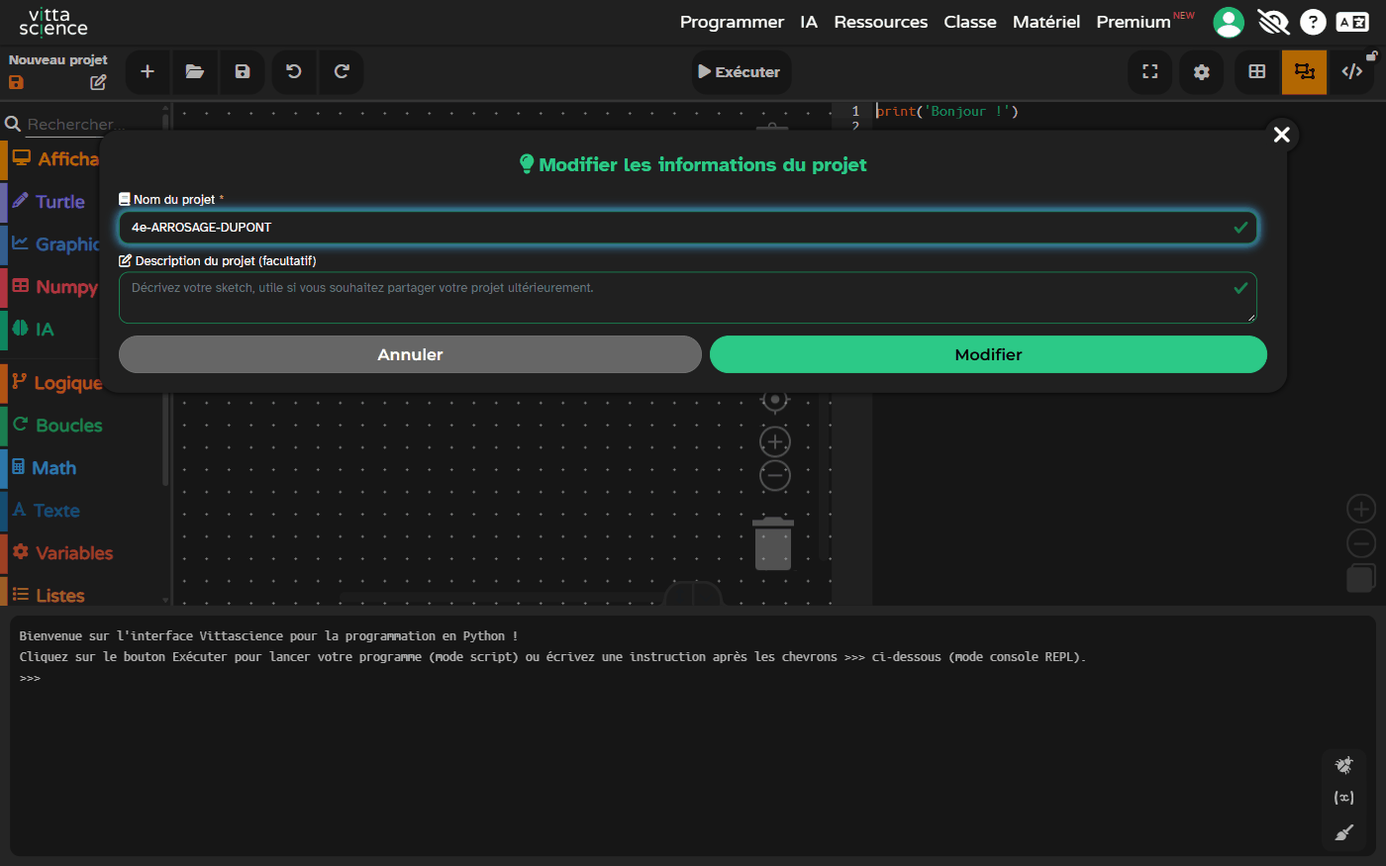
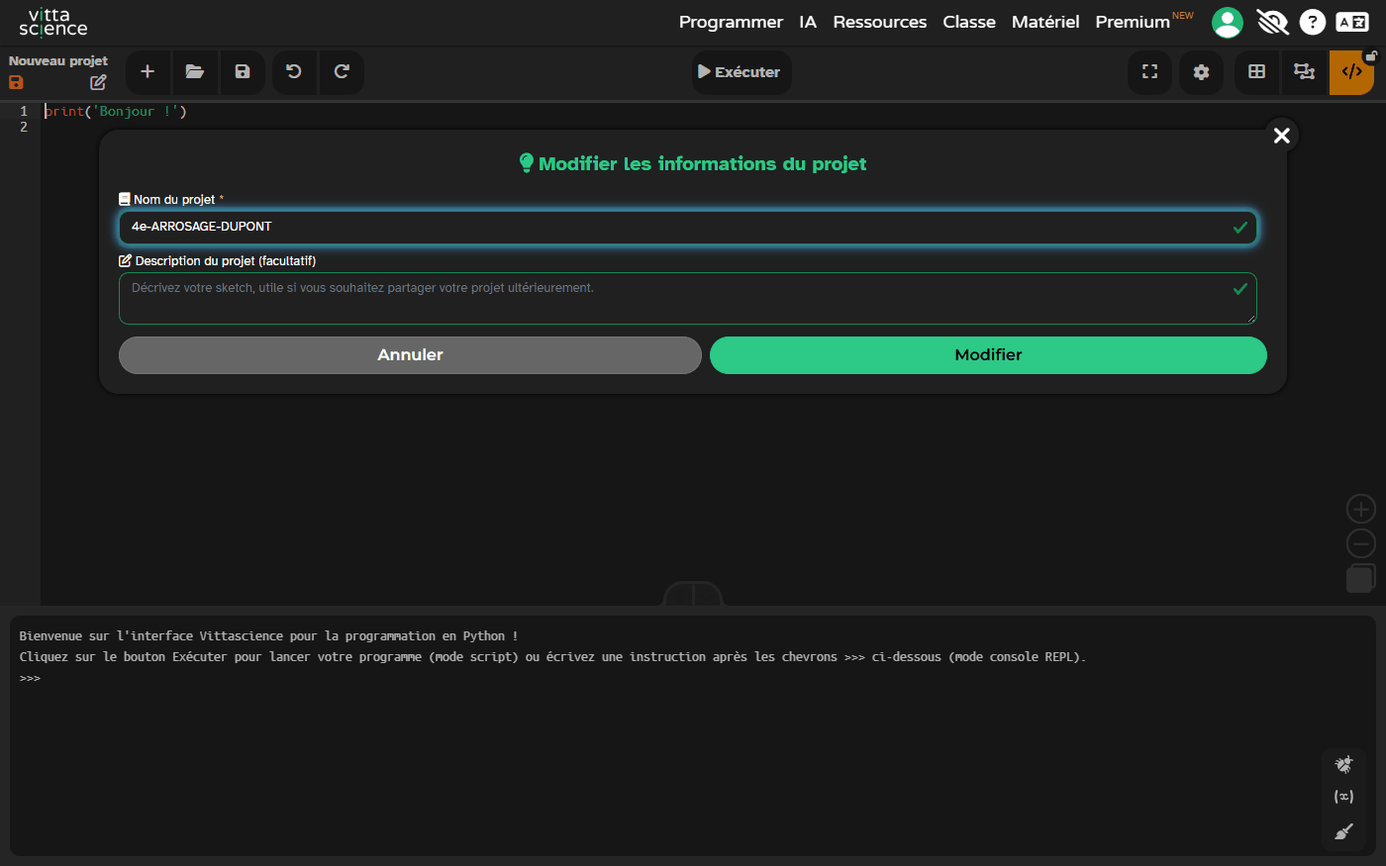
Thème 2 · 4e_C6.2 : le Python tapé se fait en mode code, avec un préambule de simulation et un bouton « Copier »
Le lot précédent n'avait testé que des blocs. En mode mixte, un programme tapé est réécrit depuis
les blocs ; et la consigne fait taper des appels à la carte (lire_capteur, demarrer_pompe,
attendre…) qui n'existent pas dans l'éditeur web. La note de l'activité 3 parlait de « blocs
capteurs » : il n'y en a pas.

Activités 3, 5 et Bonus : ?mode=code, activité 3 en Python seul. Un préambule de huit lignes fabrique
les fonctions de la carte, qui affichent ce qu'elle ferait ; trois boutons « Copier » le donnent à
l'identique. Mesuré dans Vittascience : une décision par seconde, l'onglet ne fige pas, « Arrêter »
(bandeau vert) coupe le programme, les numéros d'erreur sont ceux de la marge.

Encart des gestes sans compte : Ouvrir en mode code, Retrouver par le clic droit « Modifier dans
Bloc-notes » en copiant à partir de « import time », Sortir par Télécharger. Douze captures,
trois tests ajoutés (38/38), SOURCES_MEDIAS, rapport de tests et journal à jour.

diff --git a/theme-2-structure-fonctionnement-comportement/C6-comprendre-et-modifier-un-programme-associe/4e/4e_C6.2/sequence-jardin-connecte-arrosage-automatique.html b/theme-2-structure-fonctionnement-comportement/C6-comprendre-et-modifier-un-programme-associe/4e/4e_C6.2/sequence-jardin-connecte-arrosage-automatique.html
@@ -183,6 +183,9 @@
   .gestes-outil figure.geste-capture figcaption{margin:.35rem 0 0;font-size:.88em;line-height:1.45;opacity:.92}
   .gestes-outil figure.geste-capture figcaption b{color:inherit}
   @media print{.gestes-outil figure.geste-capture{break-inside:avoid;page-break-inside:avoid}}
+  .preambule-carte{margin:.6rem 0 .8rem}
+  .preambule-carte pre.code{margin:0 0 .5rem;font-size:.72em;white-space:pre-wrap;overflow-wrap:anywhere}
+  .preambule-carte .copie-etat{margin-left:.6rem;font-size:.9em}
 </style>
 
 
@@ -255,7 +258,7 @@
   <h2>🔀 Trois façons de vivre l'atelier</h2>
   <div class="donnees">
     <p>🅰 <b>Avec matériel</b> : l'éditeur Vittascience relié à une carte réelle + capteur d'humidité + relais + petite pompe 5 V ou DEL de substitution (<b>très basse tension uniquement — jamais de secteur</b>).</p>
-    <p>🅱 <b>En simulation</b> : les <b>barres 🧪 bleues</b> des séances 1, 2 et du Bonus ouvrent l'éditeur Vittascience dans un nouvel onglet (blocs à gauche, Python à droite) — un clic sur leur lien-bouton. Le simulateur de pompe de la séance 2 complète le tout. C'est le parcours principal.</p>
+    <p>🅱 <b>En simulation</b> : les <b>barres 🧪 bleues</b> des séances 1, 2 et du Bonus ouvrent l'éditeur Vittascience dans un nouvel onglet, en mode code (tu tapes ton programme) — un clic sur leur lien-bouton. Le simulateur de pompe de la séance 2 complète le tout. C'est le parcours principal.</p>
     <p>🅲 <b>Sans matériel</b> : la remise en ordre, le Python à trous, le simulateur de pompe et le banc de tests fonctionnent entièrement dans la page, hors ligne.</p>
   </div>
   <div class="retenir"><b>📡 Méthode de l'atelier — prédire → tester → reporter :</b> à chaque exercice, tu PRÉDIS
@@ -324,21 +327,16 @@
   c'est court. Et si tu ne les as jamais faits, tout est écrit ici — tu n'as
   besoin de rien d'autre.</p>
   <ol>
-    <li><b>Ouvrir.</b> Clique sur le bouton <b>▶ Ouvrir l'éditeur Vittascience dans un nouvel onglet</b> de l'activité&nbsp;: l'éditeur Python s'ouvre dans un nouvel onglet. Connecte-toi avec le compte de la classe si le professeur te le demande — il garde ton projet en ligne pendant la séance&nbsp;; ta copie à toi, c'est le geste 4.
+    <li><b>Ouvrir.</b> Clique sur le bouton <b>▶ Ouvrir l'éditeur Vittascience dans un nouvel onglet</b> de l'activité&nbsp;: l'éditeur Python s'ouvre dans un nouvel onglet, en <b>mode code</b>&nbsp;: tu écris ton programme au clavier. Une ligne <code>print('Bonjour&nbsp;!')</code> est déjà là&nbsp;: efface-la avant de commencer.
       <figure class="geste-capture">
         <img src="Images/geste_vitta_1_ouvrir_bouton.png" width="1400" height="875" loading="lazy"
-             alt="La page de la séquence, en thème sombre, sur l'activité 3. Dans le cadre « Reconstruis le programme de mesure dans l'onglet Vittascience — blocs OU Python, comme tu préfères », un bouton bleu « ▶ Ouvrir l'éditeur Vittascience dans un nouvel onglet », suivi de la phrase « Vittascience n'accepte pas d'être affiché à l'intérieur d'une autre page : l'éditeur s'ouvre dans un onglet à part. Garde cet onglet-ci ouvert pour lire la consigne. »">
-        <figcaption><b>Ce que tu dois voir&nbsp;:</b> le bouton <b>▶ Ouvrir l'éditeur Vittascience…</b>, dans le cadre de l'activité. <b>Puis&nbsp;:</b> clique-le&nbsp;; garde cet onglet-ci ouvert pour lire la consigne.</figcaption>
-      </figure>
-      <figure class="geste-capture">
-        <img src="Images/geste_vitta_1b_ouvrir_connexion.png" width="1400" height="875" loading="lazy"
-             alt="L'éditeur Python de Vittascience, en thème sombre, avec la fenêtre « Connexion » ouverte : « Entrez vos identifiants pour accéder à votre compte Vittascience », un champ « Adresse mail » vide, un champ « Mot de passe » vide, un lien « J'ai oublié mon mot de passe », un bouton vert « Se connecter », puis, sous « OU », quatre boutons de connexion par Google, Microsoft, Apple et IAM Luxembourg.">
-        <figcaption><b>Si le professeur te demande de te connecter&nbsp;:</b> clique l'icône du compte, en haut à droite, puis «&nbsp;Je me connecte&nbsp;». Tape l'adresse et le mot de passe <b>du compte de la classe</b>, que le professeur te donne, puis <b>Se connecter</b>. <i>N'utilise ni Google ni Microsoft&nbsp;: ce serait ton compte à toi.</i></figcaption>
+             alt="La page de la séquence, en thème sombre, sur l'activité 3. Dans le cadre « Reconstruis le programme de mesure dans l'onglet Vittascience — en Python », le préambule de simulation en huit lignes de code, un bouton « Copier le préambule », puis un bouton bleu « ▶ Ouvrir l'éditeur Vittascience dans un nouvel onglet », suivi de la phrase « Vittascience n'accepte pas d'être affiché à l'intérieur d'une autre page : l'éditeur s'ouvre dans un onglet à part. Garde cet onglet-ci ouvert pour lire la consigne. »">
+        <figcaption><b>Ce que tu dois voir&nbsp;:</b> le bouton <b>▶ Ouvrir l'éditeur Vittascience…</b>, dans le cadre de l'activité, sous le préambule et son bouton Copier. <b>Puis&nbsp;:</b> clique-le&nbsp;; garde cet onglet-ci ouvert pour lire la consigne.</figcaption>
       </figure>
       <figure class="geste-capture">
         <img src="Images/geste_vitta_1c_ouvrir_editeur.png" width="1400" height="875" loading="lazy"
-             alt="L'éditeur Python de Vittascience après la connexion, en thème sombre. En haut à gauche, le nom « Nouveau projet ». La barre d'outils : Nouveau, Ouvrir, Sauvegarder, Annuler, Rétablir, puis Exécuter au centre, et à droite les trois boutons de mode — blocs, hybride (orange), code. À gauche, les catégories de blocs : Affichage, Turtle, Graphiques, Numpy, IA, Logique, Boucles, Math, Texte, Variables, Listes. Au centre, un bloc orange « afficher “Bonjour !” » ; à droite, le code Python print('Bonjour !'). En bas, la console avec son message de bienvenue.">
-        <figcaption><b>Comment savoir que c'est fait&nbsp;:</b> blocs à gauche, Python à droite, console en bas, et le nom «&nbsp;Nouveau projet&nbsp;» en haut à gauche. <i>Le bloc «&nbsp;afficher Bonjour&nbsp;» est l'exemple que Vittascience pose dans tout projet neuf.</i></figcaption>
+             alt="L'éditeur Python de Vittascience, en thème sombre et en mode code. En haut à gauche, le nom « Nouveau projet ». La barre d'outils : Nouveau, Ouvrir, Sauvegarder, Annuler, Rétablir, puis Exécuter au centre, et à droite les trois boutons de mode, celui du code (orange) étant actif. Une seule grande zone de texte contient la ligne 1, print('Bonjour !'). En bas, la console avec son message de bienvenue.">
+        <figcaption><b>Comment savoir que c'est fait&nbsp;:</b> une seule grande zone de texte, la console en bas, et le nom «&nbsp;Nouveau projet&nbsp;» en haut à gauche. <b>Puis&nbsp;:</b> efface la ligne <code>print('Bonjour&nbsp;!')</code>, que Vittascience met dans tout projet neuf, et tape ton programme à la place.</figcaption>
       </figure>
     </li>
     <li><b>Nommer.</b> Clique le <b>crayon</b> à côté du nom du projet, en haut à gauche, et remplace «&nbsp;Nouveau projet&nbsp;» par <code>4e-ARROSAGE-TON&nbsp;NOM</code>. Un projet sans nom est introuvable la semaine suivante.
@@ -349,27 +347,32 @@
       </figure>
       <figure class="geste-capture">
         <img src="Images/geste_vitta_2b_nommer_resultat.png" width="1400" height="875" loading="lazy"
-             alt="L'éditeur après la validation : en haut à gauche, le nom du projet est devenu « 4e-ARROSAGE-DU… » (coupé à l'écran), avec une coche verte.">
+             alt="L'éditeur après la validation : en haut à gauche, le nom du projet est devenu « 4e-ARROSAGE-DU… » (coupé à l'écran).">
         <figcaption><b>Comment savoir que c'est fait&nbsp;:</b> ton nom apparaît en haut à gauche. Il est coupé à l'écran mais il est entier&nbsp;: c'est lui qui nommera ton fichier au geste 4.</figcaption>
       </figure>
     </li>
-    <li><b>Retrouver.</b> Pendant la séance, ton projet reste dans le compte de la classe&nbsp;: clique la <b>disquette</b>, puis <b>Sauvegarder</b>, et vérifie qu'il y est par <b>Ouvrir → Mes projets sur le cloud</b>. La semaine suivante, tu repars de ta copie&nbsp;: <b>Ouvrir → Depuis votre appareil</b>, puis ton fichier <code>.py</code>.
+    <li><b>Retrouver.</b> La semaine suivante, ne rouvre pas ton fichier par <b>Ouvrir → Depuis votre appareil</b>&nbsp;: Vittascience remettrait <code>print('Bonjour&nbsp;!')</code> à la place de ton programme. Ouvre ton fichier <code>.py</code> (celui du geste 4) dans le <b>Bloc-notes</b>&nbsp;: dans <b>Documents</b>, dans le dossier de ta classe, <b>clic droit</b> sur le fichier, puis <b>Modifier dans Bloc-notes</b>. Sélectionne à partir de la ligne <code>import time</code> (le préambule fait partie de ton programme), sans l'en-tête, puis <b>Ctrl&nbsp;+&nbsp;C</b>. Dans Vittascience, clique dans la zone de texte, <b>Ctrl&nbsp;+&nbsp;A</b>, puis <b>Ctrl&nbsp;+&nbsp;V</b>&nbsp;: ton programme remplace <code>print('Bonjour&nbsp;!')</code>.
       <figure class="geste-capture">
-        <img src="Images/geste_vitta_3_retrouver_cloud.png" width="1400" height="875" loading="lazy"
-             alt="Fenêtre « Ouvrir un projet » de Vittascience, onglet « Mes projets sur le cloud » (1). Un seul projet est listé : 4e-ARROSAGE-DUPONT, avec la mention « Privée » et « Modifié le dimanche 4 octobre 2026 à 11:52 », et quatre boutons : Ouvrir, Partager, Intégrer, Supprimer. Les autres onglets sont « Projets de la communauté », « Exemples », « Mes projets locaux » et « Depuis votre appareil ».">
-        <figcaption><b>Ce que tu dois voir&nbsp;:</b> ton projet dans «&nbsp;Mes projets sur le cloud&nbsp;», après la sauvegarde. <b>Puis&nbsp;:</b> ferme la fenêtre avec la croix. <i>Ici le compte de test n'a qu'un projet&nbsp;; celui de la classe en aura un par élève.</i></figcaption>
+        <img src="Images/geste_vitta_3_retrouver_menu.png" width="832" height="388" loading="lazy"
+             alt="Le haut du menu qui s'ouvre au clic droit sur le fichier .py, en thème sombre. De haut en bas : « Ouvrir avec » en gras, « Convertir avec Doxillion », « WinRAR », « Déplacer vers OneDrive », « Éditer avec Notepad++ », « Unlock with File Locksmith », puis « Modifier dans Bloc-notes ». L'image est recadrée sur le haut du menu.">
+        <figcaption><b>Ce que tu dois voir&nbsp;:</b> le menu du clic droit, avec la ligne <b>Modifier dans Bloc-notes</b>. <b>Clique-la.</b> <b>Si cette ligne n'est pas dans le menu&nbsp;:</b> clique <b>Ouvrir avec</b>, cherche <b>Bloc-notes</b> dans la liste, puis <b>Une seule fois</b>. <i>Les autres lignes dépendent du poste&nbsp;: ce sont celles de ce poste-ci.</i></figcaption>
       </figure>
       <figure class="geste-capture">
-        <img src="Images/geste_vitta_3b_retrouver_appareil.png" width="1400" height="875" loading="lazy"
-             alt="La même fenêtre « Ouvrir un projet », onglet « Depuis votre appareil » : une zone « Déposez vos fichiers ici… », un champ « Sélectionnez un fichier. » et un bouton vert « Ouvrir … ».">
-        <figcaption><b>La semaine suivante&nbsp;:</b> onglet <b>Depuis votre appareil</b>, bouton <b>Ouvrir…</b>, puis ton fichier <code>.py</code> dans Documents › ta classe. Vittascience te demande de confirmer&nbsp;: <b>Oui</b>. Ton programme revient, en blocs.</figcaption>
+        <img src="Images/geste_vitta_3b_retrouver_bloc_notes.png" width="1400" height="843" loading="lazy"
+             alt="Le fichier .py ouvert dans le Bloc-notes de Windows, en thème sombre. Dans l'onglet, le début du nom du fichier : « 4e-ARROSAGE-DU… ». Sous la barre de menus (Fichier, Modifier, Affichage), quatorze lignes d'en-tête de Vittascience entre deux lignes de trois guillemets, dont une longue ligne Blocks coupée à droite. En dessous, sur fond bleu, seize lignes sélectionnées : les huit lignes du préambule, de « import time; A0 = 0; … » à « # ===== Ton programme commence ici ===== », puis le programme, de « seuil = 30 » à « attendre(1) ». L'image est recadrée sur la partie gauche de la fenêtre.">
+        <figcaption><b>Ce que tu dois voir&nbsp;:</b> le Bloc-notes, le nom de ton fichier dans l'onglet, l'en-tête de Vittascience, puis ton programme. <b>Sélectionne à partir de la ligne <code>import time</code></b> (le préambule fait partie de ton programme), <b>sans l'en-tête</b>, jusqu'à la fin. Puis <b>Ctrl&nbsp;+&nbsp;C</b>. <i>La fenêtre est recadrée sur sa partie gauche&nbsp;; le programme est un exemple.</i></figcaption>
+      </figure>
+      <figure class="geste-capture">
+        <img src="Images/geste_vitta_3c_retrouver_coller.png" width="1400" height="875" loading="lazy"
+             alt="L'éditeur Python de Vittascience, en thème sombre et en mode code, pendant l'exécution. La marge numérote les lignes de 1 à 17 : les huit lignes du préambule, puis le programme. Un bandeau vert « Exécution de votre code… Veuillez patienter. » porte un bouton « Arrêter ». La console, en bas, affiche des lignes comme « [capteur] 25 % » suivie de « [pompe] MARCHE », puis « [capteur] 45 % » suivie de « [pompe] arrêt ».">
+        <figcaption><b>Comment savoir que c'est fait&nbsp;:</b> ton programme, préambule compris, a pris la place de <code>print('Bonjour&nbsp;!')</code>, et <b>Exécuter</b> remplit la console. <b>Pour arrêter&nbsp;:</b> clique <b>Arrêter</b>, dans le bandeau vert. En cas d'erreur, le numéro de ligne donné par la console est celui de la marge. <i>Le programme est un exemple&nbsp;: c'est le tien qui revient.</i></figcaption>
       </figure>
     </li>
-    <li><b>Sortir.</b> Le compte de la classe est partagé&nbsp;: il ne garde pas ton travail d'une séance à l'autre. Clique la <b>disquette</b>, puis <b>Télécharger</b>&nbsp;: un fichier <code>.py</code> au nom de ton projet arrive dans <b>Téléchargements</b>. Vittascience ajoute des chiffres à la fin du nom du fichier&nbsp;: c'est normal. <b>Déplace-le</b> dans <b>Documents</b>, dans <b>le dossier de ta classe (exemple&nbsp;: 4E3)</b>. Si ce dossier n'existe pas encore, crée-le d'abord&nbsp;: dans Documents, <b>Nouveau → Dossier</b>, tape le nom de ta classe, puis valide.
+    <li><b>Sortir.</b> Vittascience ne garde pas ton travail d'une séance à l'autre. Clique la <b>disquette</b>, puis <b>Télécharger</b>&nbsp;: un fichier <code>.py</code> au nom de ton projet arrive dans <b>Téléchargements</b>. Vittascience ajoute des chiffres à la fin du nom du fichier&nbsp;: c'est normal. <b>Déplace-le</b> dans <b>Documents</b>, dans <b>le dossier de ta classe (exemple&nbsp;: 4E3)</b>. Si ce dossier n'existe pas encore, crée-le d'abord&nbsp;: dans Documents, <b>Nouveau → Dossier</b>, tape le nom de ta classe, puis valide.
       <figure class="geste-capture">
         <img src="Images/geste_vitta_4_sortir_telecharger.png" width="1400" height="875" loading="lazy"
-             alt="Fenêtre « Sauvegarder le projet » de Vittascience. Le champ « Nom du projet » contient 4e-ARROSAGE-DUPONT. Dessous : une description facultative, un bandeau bleu sur le partage avec la communauté, un interrupteur « Publier son projet pour toute la communauté » éteint, trois boutons « Sauvegarder », « Sauvegarder sous … » et « Partager », puis, sous le mot « ou », un bouton vert « Télécharger » avec un point d'interrogation.">
-        <figcaption><b>Ce que tu dois voir&nbsp;:</b> la fenêtre «&nbsp;Sauvegarder le projet&nbsp;», ouverte par la <b>disquette</b>. <b>Clique «&nbsp;Télécharger&nbsp;»</b>, le bouton vert tout en bas. <i>Laisse «&nbsp;Publier son projet&nbsp;» éteint.</i></figcaption>
+             alt="Fenêtre « Sauvegarder le projet » de Vittascience, en thème sombre, sans compte. Le texte « Pour enregistrer votre projet, veuillez vous connecter. », un bouton vert « Je me connecte », le mot « ou », un bouton orange « Je m'inscris ! », une ligne, le mot « ou », puis un bouton vert « Télécharger » avec un point d'interrogation.">
+        <figcaption><b>Ce que tu dois voir&nbsp;:</b> la fenêtre «&nbsp;Sauvegarder le projet&nbsp;», ouverte par la <b>disquette</b>. <b>Ne te connecte pas et ne t'inscris pas&nbsp;:</b> clique <b>Télécharger</b>, le bouton vert tout en bas.</figcaption>
       </figure>
       <figure class="geste-capture">
         <img src="Images/geste_vitta_4b_sortir_telechargements.png" width="1400" height="543" loading="lazy"
@@ -407,10 +410,24 @@
     </table>
     <p class="py-legende">🎨 Lis le code en couleurs : <span class="py-var">variables</span> · <span class="py-str">"textes"</span> · <span class="py-num">nombres</span> · <span class="py-kw">mots-clés</span> · <span class="py-op">=</span> et opérateurs</p>
     <details class="vs" id="vs1" open>
-      <summary>🧪 Reconstruis le programme de mesure dans l'onglet Vittascience — blocs OU Python, comme tu préfères</summary>
-      <p class="vs-note">L'éditeur s'ouvre dans un nouvel onglet : blocs à gauche, Python à droite, console en bas. Assemble les blocs « capteurs » dans l'ordre que tu as choisi, exécute, et observe la console. (Connexion Internet nécessaire pour l'éditeur ; le reste de la page fonctionne hors ligne.)</p>
+      <summary>🧪 Reconstruis le programme de mesure dans l'onglet Vittascience — en Python</summary>
+      <p class="vs-note">L'éditeur s'ouvre dans un nouvel onglet, en mode code&nbsp;: tu tapes ton programme dans la grande zone de texte, la console est en bas. (Connexion Internet nécessaire pour l'éditeur&nbsp;; le reste de la page fonctionne hors ligne.)</p>
+      <p class="vs-note"><b>Sans carte réelle, commence par coller le préambule ci-dessous</b> (bouton Copier)&nbsp;: dans l'éditeur, clique dans la zone de texte, <b>Ctrl&nbsp;+&nbsp;A</b>, puis <b>Ctrl&nbsp;+&nbsp;V</b>. Il fabrique les fonctions de la carte, qui affichent ce que la carte ferait.</p>
+      <div class="preambule-carte">
+        <pre class="code" id="preambule-vs1">import time; A0 = 0; mesures = [55, 40, 25, 12, 28, 45]; rang = [0]  # ===== Simulation de la carte (7 lignes) : ne les change pas =====
+def suivante(): rang[0] = rang[0] + 1; return mesures[(rang[0] - 1) % len(mesures)]
+def lire_capteur_pourcent(broche): v = suivante(); print("[capteur]", v, "%"); return v
+def lire_capteur(broche): v = suivante() * 1023 // 100; print("[capteur] valeur brute", v); return v
+def demarrer_pompe(): print("[pompe] MARCHE")
+def arreter_pompe(): print("[pompe] arrêt")
+def attendre(secondes): time.sleep(secondes)
+# ===== Ton programme commence ici =====</pre>
+        <button type="button" class="btn copier-preambule" data-cible="preambule-vs1">📋 Copier le préambule</button>
+        <span class="copie-etat" role="status" aria-live="polite"></span>
+      </div>
+      <p class="vs-note">Tape ensuite tes cinq lignes sous le préambule, dans l'ordre que tu as choisi, clique <b>Exécuter</b> et observe la console. Le programme boucle sans fin&nbsp;: clique <b>Arrêter</b>, sous Exécuter, pour l'arrêter. En cas d'erreur, le numéro de ligne donné par la console est celui de la marge de l'éditeur.</p>
       
-<p class="vs-ouvrir"><a class="btn vs-lien" href="https://fr.vittascience.com/python/?mode=mixed&amp;console=bottom" target="_blank" rel="noopener">▶ Ouvrir l'éditeur Vittascience dans un nouvel onglet</a></p>
+<p class="vs-ouvrir"><a class="btn vs-lien" href="https://fr.vittascience.com/python/?mode=code&amp;console=bottom" target="_blank" rel="noopener">▶ Ouvrir l'éditeur Vittascience dans un nouvel onglet</a></p>
 <p class="vs-note">Vittascience n'accepte pas d'être affiché à l'intérieur d'une autre page : l'éditeur s'ouvre dans un onglet à part. Garde cet onglet-ci ouvert pour lire la consigne.</p>
     </details>
     <details class="aide"><summary>💡 Aide niveau 1 — un indice</summary><div><p>On ne peut pas convertir une valeur qu'on n'a pas encore lue. Et « répéter sans fin » englobe tout ce qui doit se refaire chaque seconde.</p></div></details>
@@ -469,13 +486,26 @@
     <label>PRÉDIS, puis vérifie dans l'éditeur : avec <code>humidite = 12</code> et <code>seuil = 30</code>, il se passe… <select id="a5q1"><option value="">— je choisis —</option><option>la pompe démarre (12 &lt; 30 est VRAI)</option><option>la pompe s'arrête</option><option>rien, le programme attend</option></select></label>
     <details class="vs" id="vs2" open>
       <summary>🧪 Recopie ton programme complété dans l'onglet Vittascience et exécute-le — la preuve par la console</summary>
-      <p class="vs-note">Blocs à gauche, Python à droite. Sans carte réelle, remplace <code>lire_capteur_pourcent(A0)</code> par une valeur de ton choix (par ex. <code>humidite = 12</code>) et <code>demarrer_pompe()</code> par <code>print("POMPE EN MARCHE")</code> : la console te montre la décision.</p>
+      <p class="vs-note">Mode code. <b>Colle d'abord le préambule</b> (bouton Copier, comme à l'activité 3)&nbsp;: <code>lire_capteur_pourcent</code>, <code>demarrer_pompe</code>, <code>arreter_pompe</code> et <code>attendre</code> existent alors, et elles affichent ce que la carte ferait.</p>
+      <div class="preambule-carte">
+        <pre class="code" id="preambule-vs2">import time; A0 = 0; mesures = [55, 40, 25, 12, 28, 45]; rang = [0]  # ===== Simulation de la carte (7 lignes) : ne les change pas =====
+def suivante(): rang[0] = rang[0] + 1; return mesures[(rang[0] - 1) % len(mesures)]
+def lire_capteur_pourcent(broche): v = suivante(); print("[capteur]", v, "%"); return v
+def lire_capteur(broche): v = suivante() * 1023 // 100; print("[capteur] valeur brute", v); return v
+def demarrer_pompe(): print("[pompe] MARCHE")
+def arreter_pompe(): print("[pompe] arrêt")
+def attendre(secondes): time.sleep(secondes)
+# ===== Ton programme commence ici =====</pre>
+        <button type="button" class="btn copier-preambule" data-cible="preambule-vs2">📋 Copier le préambule</button>
+        <span class="copie-etat" role="status" aria-live="polite"></span>
+      </div>
+      <p class="vs-note">Recopie ensuite ton programme complété sous le préambule et clique <b>Exécuter</b>. Le capteur simulé lit 55, 40, 25, 12, 28, puis 45&nbsp;%, et recommence&nbsp;: la console montre la décision pour chaque mesure. Le programme boucle sans fin&nbsp;: clique <b>Arrêter</b>, sous Exécuter.</p>
       
-<p class="vs-ouvrir"><a class="btn vs-lien" href="https://fr.vittascience.com/python/?mode=mixed&amp;console=bottom" target="_blank" rel="noopener">▶ Ouvrir l'éditeur Vittascience dans un nouvel onglet</a></p>
+<p class="vs-ouvrir"><a class="btn vs-lien" href="https://fr.vittascience.com/python/?mode=code&amp;console=bottom" target="_blank" rel="noopener">▶ Ouvrir l'éditeur Vittascience dans un nouvel onglet</a></p>
 <p class="vs-note">Vittascience n'accepte pas d'être affiché à l'intérieur d'une autre page : l'éditeur s'ouvre dans un onglet à part. Garde cet onglet-ci ouvert pour lire la consigne.</p>
     </details>
     <details class="aide"><summary>💡 Aide niveau 1 — un indice</summary><div><p>Reprends ta règle de l'activité 4 : elle se traduit mot à mot. « inférieure » → quel symbole ?</p></div></details>
-    <details class="aide"><summary>💡 Aide niveau 2 — la démarche</summary><div><p>Trou par trou :<br>① la condition du SI est la traduction directe de « humidité inférieure au seuil » ;<br>② DANS le SI (sol sec), on démarre ;<br>③ dans le SINON (sol assez humide), on arrête. Puis exécute avec humidite = 12 : quelle branche s'affiche ?</p></div></details>
+    <details class="aide"><summary>💡 Aide niveau 2 — la démarche</summary><div><p>Trou par trou :<br>① la condition du SI est la traduction directe de « humidité inférieure au seuil » ;<br>② DANS le SI (sol sec), on démarre ;<br>③ dans le SINON (sol assez humide), on arrête. Puis exécute : pour une mesure de 12 %, quelle branche s'affiche ?</p></div></details>
     <button class="btn check" data-check="5" type="button">✅ Vérifier l'activité 5</button>
     <p class="feedback" id="fb5" role="status"></p>
     <details class="correction"><summary>📖 Correction complète</summary><div>
@@ -614,9 +644,22 @@ n'est écrit qu'à UN endroit (la variable <code>seuil</code>) — pour changer 
   du banc. S'il trouve la réponse tout seul à « et avec ≤ ? », vous avez gagné tous les deux.</p>
   <details class="vs" id="vs3" open>
     <summary>🧪 L'éditeur du Bonus — code tes défis ici, dans l'onglet Vittascience</summary>
-    <p class="vs-note">Blocs à gauche, Python à droite, console en bas. (Connexion Internet nécessaire pour l'éditeur ; le reste de la page fonctionne hors ligne.)</p>
+    <p class="vs-note">L'éditeur s'ouvre en mode code, console en bas. (Connexion Internet nécessaire pour l'éditeur&nbsp;; le reste de la page fonctionne hors ligne.)</p>
+    <p class="vs-note">Colle d'abord le préambule (bouton Copier), puis écris tes défis sous ses huit lignes. Un programme qui boucle sans fin s'arrête avec <b>Arrêter</b>, sous Exécuter.</p>
+    <div class="preambule-carte">
+      <pre class="code" id="preambule-vs3">import time; A0 = 0; mesures = [55, 40, 25, 12, 28, 45]; rang = [0]  # ===== Simulation de la carte (7 lignes) : ne les change pas =====
+def suivante(): rang[0] = rang[0] + 1; return mesures[(rang[0] - 1) % len(mesures)]
+def lire_capteur_pourcent(broche): v = suivante(); print("[capteur]", v, "%"); return v
+def lire_capteur(broche): v = suivante() * 1023 // 100; print("[capteur] valeur brute", v); return v
+def demarrer_pompe(): print("[pompe] MARCHE")
+def arreter_pompe(): print("[pompe] arrêt")
+def attendre(secondes): time.sleep(secondes)
+# ===== Ton programme commence ici =====</pre>
+      <button type="button" class="btn copier-preambule" data-cible="preambule-vs3">📋 Copier le préambule</button>
+      <span class="copie-etat" role="status" aria-live="polite"></span>
+    </div>
     
-<p class="vs-ouvrir"><a class="btn vs-lien" href="https://fr.vittascience.com/python/?mode=mixed&amp;console=bottom" target="_blank" rel="noopener">▶ Ouvrir l'éditeur Vittascience dans un nouvel onglet</a></p>
+<p class="vs-ouvrir"><a class="btn vs-lien" href="https://fr.vittascience.com/python/?mode=code&amp;console=bottom" target="_blank" rel="noopener">▶ Ouvrir l'éditeur Vittascience dans un nouvel onglet</a></p>
 <p class="vs-note">Vittascience n'accepte pas d'être affiché à l'intérieur d'une autre page : l'éditeur s'ouvre dans un onglet à part. Garde cet onglet-ci ouvert pour lire la consigne.</p>
   </details>
   <p><label for="bonusRep"><b>✍ Ma réponse au Bonus</b> (facultatif — enregistrée avec ton travail) :</label></p>
@@ -687,6 +730,18 @@ function pyc(src){
   }).join("\n");
 }
 document.querySelectorAll("pre.code").forEach(e => { e.innerHTML = pyc(e.textContent); });
+/* Bouton « Copier le préambule » : copie le texte exact du bloc (espaces insécables remplacés), sans retaper */
+document.querySelectorAll(".copier-preambule").forEach(b => b.addEventListener("click", async () => {
+  const texte = document.getElementById(b.dataset.cible).textContent.replace(/\u00a0/g, " ").replace(/\s+$/, "") + "\n";
+  const etat = b.parentElement.querySelector(".copie-etat");
+  const ok = "✔ Copié ! Colle-le dans l'éditeur avec Ctrl + V.";
+  try { await navigator.clipboard.writeText(texte); etat.textContent = ok; }
+  catch (e) {
+    const ta = document.createElement("textarea"); ta.value = texte; document.body.appendChild(ta); ta.select();
+    try { document.execCommand("copy"); etat.textContent = ok; } catch (e2) { etat.textContent = "Copie impossible : sélectionne les lignes à la main."; }
+    ta.remove();
+  }
+}));
 
 /* ── pseudo-code de l'activité 4 qui s'écrit en direct ── */
 function majPseudo(){

diff --git a/theme-2-structure-fonctionnement-comportement/C6-comprendre-et-modifier-un-programme-associe/4e/4e_C6.2/SOURCES_MEDIAS.md b/theme-2-structure-fonctionnement-comportement/C6-comprendre-et-modifier-un-programme-associe/4e/4e_C6.2/SOURCES_MEDIAS.md
@@ -41,27 +41,28 @@ réorganisation du programme 2024, sans commit d'origine.
 
 En attendant la réponse, le fichier reste en place et sa réserve est écrite.
 
-## Captures des gestes de Vittascience — 04/10/2026
+## Captures des gestes de Vittascience — 04/10/2026, reprises en mode code
 
-Prises en déroulant l'encart sur le poste de Pascal, thème sombre, 1400 px de large (réduites par
-`reduire.py`). Vittascience : Chrome 154 piloté par Playwright, page rendue à 1400 × 875 à l'échelle 1,
-données du site vidées avant la séance ; **le mot de passe du compte de test a été tapé par Pascal**, pas par
-la chaîne. Explorateur : `capwin.ps1`, fenêtre seule, fil d'Ariane replié en « Documents › 4E3 » (pas de nom
-de compte), aucun autre dossier de `Documents` visible (`PROTOCOLE_CAPTURES_GESTES.md`). Le programme visible
-est l'exemple « afficher Bonjour » que Vittascience pose dans tout projet neuf ; `4e-ARROSAGE-DUPONT` et `4E3`
+L'encart « Avant de commencer (échauffement) » porte douze captures. **Il se fait sans compte** : aucune capture ne montre
+une session connectée, et le `.py` téléchargé sans compte n'a pas de ligne `Auteur:`. Les captures de Vittascience ont été
+prises dans un **profil de navigateur temporaire, neuf et jamais connecté**, à 1400 × 875, échelle 1. Les captures de
+l'Explorateur et du Bloc-notes sont des **fenêtres seules**, sans nom de compte Windows (`PROTOCOLE_CAPTURES_GESTES.md`).
+Le premier jeu de captures (compte de test, éditeur en mode hybride) a été **remplacé** pour les gestes 1 à 3 et la fenêtre
+« Sauvegarder le projet » ; les quatre captures de l'Explorateur du geste « Sortir » sont **conservées** du premier jeu, dont
+le fichier d'exemple est plus ancien que celui du geste « Retrouver » (autre nom, autre poids). `4e-ARROSAGE-DUPONT` et `4E3`
 sont des **exemples**, dits tels dans les légendes.
 
 | Fichier | Nature | Origine | Licence | Usage | Poids |
 |---|---|---|---|---|---|
-| `Images/geste_vitta_1_ouvrir_bouton.png` | **Capture d'écran réelle** (règle n°94) | la page de la séquence elle-même (fichier local), Chrome 154 piloté par Playwright, poste de Pascal, 04/10/2026 | CC0 | Geste 1 — le bouton qui ouvre l'éditeur | 46 Ko |
-| `Images/geste_vitta_1b_ouvrir_connexion.png` | **Capture d'écran réelle** (règle n°94) | Vittascience (page seule), formulaire de connexion **vide**, poste de Pascal, 04/10/2026 | CC0 | Geste 1 — la fenêtre Connexion | 39 Ko |
-| `Images/geste_vitta_1c_ouvrir_editeur.png` | **Capture d'écran réelle** (règle n°94) | Vittascience (page seule), compte de test `eleve.techno`, poste de Pascal, 04/10/2026 | CC0 | Geste 1 — l'éditeur Python, connecté | 31 Ko |
-| `Images/geste_vitta_2_nommer_fenetre.png` | **Capture d'écran réelle** (règle n°94) | Vittascience (page seule), compte de test, poste de Pascal, 04/10/2026 | CC0 | Geste 2 — la fenêtre du nom | 35 Ko |
-| `Images/geste_vitta_2b_nommer_resultat.png` | **Capture d'écran réelle** (règle n°94) | Vittascience (page seule), compte de test, poste de Pascal, 04/10/2026 | CC0 | Geste 2 — le nom en haut à gauche | 31 Ko |
-| `Images/geste_vitta_3_retrouver_cloud.png` | **Capture d'écran réelle** (règle n°94) | Vittascience (page seule), compte de test, poste de Pascal, 04/10/2026 | CC0 | Geste 3 — Mes projets sur le cloud | 34 Ko |
-| `Images/geste_vitta_3b_retrouver_appareil.png` | **Capture d'écran réelle** (règle n°94) | Vittascience (page seule), compte de test, poste de Pascal, 04/10/2026 | CC0 | Geste 3 — Depuis votre appareil | 35 Ko |
-| `Images/geste_vitta_4_sortir_telecharger.png` | **Capture d'écran réelle** (règle n°94) | Vittascience (page seule), compte de test, poste de Pascal, 04/10/2026 | CC0 | Geste 4 — Sauvegarder le projet, bouton Télécharger | 38 Ko |
-| `Images/geste_vitta_4b_sortir_telechargements.png` | **Capture d'écran réelle** (règle n°94) | Explorateur de fichiers, fenêtre entière **rétrécie**, volet de navigation masqué, poste de Pascal, 04/10/2026 | CC0 | Geste 4 — le fichier dans Téléchargements | 56 Ko |
-| `Images/geste_vitta_4c_sortir_nouveau_dossier.png` | **Capture d'écran réelle** (règle n°94) | Explorateur de fichiers, fenêtre entière **rétrécie à une ligne**, poste de Pascal, 04/10/2026 | CC0 | Geste 4 — Nouveau dossier dans Documents | 47 Ko |
-| `Images/geste_vitta_4d_sortir_nom_de_classe.png` | **Capture d'écran réelle** (règle n°94) | Explorateur de fichiers, fenêtre entière **rétrécie à une ligne**, poste de Pascal, 04/10/2026 | CC0 | Geste 4 — le nom 4E3 | 46 Ko |
-| `Images/geste_vitta_4e_sortir_resultat.png` | **Capture d'écran réelle** (règle n°94) | Explorateur de fichiers, fenêtre entière **rétrécie**, poste de Pascal, 04/10/2026 | CC0 | Geste 4 — Documents › 4E3 | 56 Ko |
+| `Images/geste_vitta_1_ouvrir_bouton.png` | **Capture d'écran réelle** (règle n°94) | La séquence 4e_C6.2 elle-même (servie en local), Chrome 154 piloté par Playwright, profil temporaire neuf, échelle 1, 04/10/2026 — fenêtre de 1400 × 875, non recadrée | CC0 | Geste 1 — Ouvrir : le préambule, son bouton Copier, puis le bouton de l'activité 3 | 62 Ko |
+| `Images/geste_vitta_1c_ouvrir_editeur.png` | **Capture d'écran réelle** (règle n°94) | **Reprise octet pour octet** de `3e_C9.1/Images/geste_vitta_1c_ouvrir_editeur.png` (Vittascience, mode code, profil temporaire neuf, sans compte, 04/10/2026) : le même écran à l'ouverture | CC0 | Geste 1 — Ouvrir : l'éditeur Python en mode code, avec print('Bonjour !') | 17 Ko |
+| `Images/geste_vitta_2_nommer_fenetre.png` | **Capture d'écran réelle** (règle n°94) | Vittascience (page seule), Chrome 154 piloté par Playwright, **profil temporaire neuf**, **sans compte**, thème sombre, échelle 1, poste de Pascal, 04/10/2026 | CC0 | Geste 2 — Nommer : la fenêtre « Modifier les informations du projet » | 27 Ko |
+| `Images/geste_vitta_2b_nommer_resultat.png` | **Capture d'écran réelle** (règle n°94) | Vittascience (page seule), Chrome 154 piloté par Playwright, **profil temporaire neuf**, **sans compte**, thème sombre, échelle 1, poste de Pascal, 04/10/2026 | CC0 | Geste 2 — Nommer : le nom du projet en haut à gauche | 18 Ko |
+| `Images/geste_vitta_3_retrouver_menu.png` | **Capture d'écran réelle** (règle n°94) | **Reprise octet pour octet** de `3e_C9.1/Images/geste_vitta_3_retrouver_menu.png` (menu contextuel de l'Explorateur, poste de Pascal, 04/10/2026, recadré sur le haut du menu) : même poste, même menu, aucun nom de fichier visible | CC0 | Geste 3 — Retrouver : la ligne « Modifier dans Bloc-notes » | 13 Ko |
+| `Images/geste_vitta_3b_retrouver_bloc_notes.png` | **Capture d'écran réelle** (règle n°94) | Bloc-notes de Windows ouvert par « Modifier dans Bloc-notes » (fenêtre à **un seul onglet**, 2400 × 1300), poste de Pascal, 04/10/2026 — **recadrée** sur la partie gauche (1972 × 1187) : le coin droit de la barre d'outils, qui porte le profil Windows, est **hors cadre** ; fichier d'exemple 4e-ARROSAGE-DUPONT_202694_202311.py ; la sélection (750 caractères) a été relue dans le presse-papiers | CC0 | Geste 3 — Retrouver : l'onglet, l'en-tête de Vittascience et le programme sélectionné à partir de `import time` | 126 Ko |
+| `Images/geste_vitta_3c_retrouver_coller.png` | **Capture d'écran réelle** (règle n°94) | Vittascience (page seule), Chrome 154 piloté par Playwright, **profil temporaire neuf**, **sans compte**, thème sombre, échelle 1, poste de Pascal, 04/10/2026 — le texte collé est celui copié dans le Bloc-notes (750 caractères), inséré par le pilote de test ; prise 5 s après « Exécuter », le bandeau « Arrêter » visible | CC0 | Geste 3 — Retrouver : le programme collé et en cours d'exécution, console, marge numérotée, bouton Arrêter | 29 Ko |
+| `Images/geste_vitta_4_sortir_telecharger.png` | **Capture d'écran réelle** (règle n°94) | Vittascience (page seule), Chrome 154 piloté par Playwright, **profil temporaire neuf**, **sans compte**, thème sombre, échelle 1, poste de Pascal, 04/10/2026 — fenêtre « Sauvegarder le projet » **sans compte** : « Je me connecte », « Je m'inscris ! », puis « Télécharger » | CC0 | Geste 4 — Sortir : la disquette, puis le bouton Télécharger | 25 Ko |
+| `Images/geste_vitta_4b_sortir_telechargements.png` | **Capture d'écran réelle** (règle n°94) | Explorateur de fichiers Windows (fenêtre seule, rétrécie à une ligne), poste de Pascal, 04/10/2026 — **conservée du premier jeu de captures de ce lot** (le fichier montré est `4e-ARROSAGE-DUPONT_202694_75334.py`, 609 octets, celui de ce premier jeu) | CC0 | Geste 4 — Sortir : le fichier dans Téléchargements | 56 Ko |
+| `Images/geste_vitta_4c_sortir_nouveau_dossier.png` | **Capture d'écran réelle** (règle n°94) | Explorateur de fichiers Windows (fenêtre seule, rétrécie à une ligne), poste de Pascal, 04/10/2026 — **conservée du premier jeu de captures de ce lot** (le fichier montré est `4e-ARROSAGE-DUPONT_202694_75334.py`, 609 octets, celui de ce premier jeu) | CC0 | Geste 4 — Sortir : Documents, nouveau dossier à renommer | 48 Ko |
+| `Images/geste_vitta_4d_sortir_nom_de_classe.png` | **Capture d'écran réelle** (règle n°94) | Explorateur de fichiers Windows (fenêtre seule, rétrécie à une ligne), poste de Pascal, 04/10/2026 — **conservée du premier jeu de captures de ce lot** (le fichier montré est `4e-ARROSAGE-DUPONT_202694_75334.py`, 609 octets, celui de ce premier jeu) | CC0 | Geste 4 — Sortir : le nom 4E3 saisi | 46 Ko |
+| `Images/geste_vitta_4e_sortir_resultat.png` | **Capture d'écran réelle** (règle n°94) | Explorateur de fichiers Windows (fenêtre seule, rétrécie à une ligne), poste de Pascal, 04/10/2026 — **conservée du premier jeu de captures de ce lot** (le fichier montré est `4e-ARROSAGE-DUPONT_202694_75334.py`, 609 octets, celui de ce premier jeu) | CC0 | Geste 4 — Sortir : Documents › 4E3 contient le fichier | 57 Ko |

diff --git a/JOURNAL_DES_DECISIONS.md b/JOURNAL_DES_DECISIONS.md
@@ -21494,3 +21494,75 @@ est le `favicon.ico` du serveur local).
 
 **Remis en état.** Dossier `3E1` envoyé à la corbeille de Windows, fichier d'essai retiré de Téléchargements, fenêtres de l'Explorateur
 fermées ; la fenêtre du Bloc-notes ouverte pour la capture est refermée ; dans la session de Pascal, aucun onglet n'a été touché.
+
+## 04/10/2026 — Thème 2 · 4e_C6.2 : lot correctif — le Python tapé se fait en mode code, avec un préambule de simulation (vague 2, étape 2)
+
+**Pourquoi.** Le lot précédent (#468) n'avait testé que des blocs. Mesuré ensuite sur `fr.vittascience.com/python/` (voir l'entrée de
+3e_C9.1) : en mode mixte, un programme **tapé** est réécrit depuis les blocs au téléchargement ; et la consigne de 4e_C6.2 fait taper du
+Python qui appelle `lire_capteur`, `lire_capteur_pourcent`, `demarrer_pompe`, `arreter_pompe` et `attendre`, **fonctions qui n'existent pas**
+dans l'éditeur web (`NameError`). La note de l'activité 3 parlait de « blocs capteurs » : l'interface Python n'en a aucun (quatorze
+catégories relevées, aucune « capteurs »).
+
+**Classement activité par activité (décision de Pascal).** Les trois barres 🧪 sont des activités où l'élève **tape** du code :
+
+| Activité | Avant | Après |
+|---|---|---|
+| 3 — Les blocs en désordre | « blocs OU Python, comme tu préfères » ; « assemble les blocs capteurs » ; `?mode=mixed` | **Python seul**, `?mode=code` ; plus de « blocs capteurs » ; préambule à coller ; « Arrêter » |
+| 5 — Le Python à trous | « Blocs à gauche, Python à droite » ; remplacer les appels de la carte à la main ; `?mode=mixed` | `?mode=code` ; préambule à coller (les quatre fonctions existent alors) ; « Arrêter » ; l'aide de niveau 2 dit « pour une mesure de 12 % » et non plus « avec humidite = 12 » |
+| Bonus — défis | « Blocs à gauche, Python à droite, console en bas » ; `?mode=mixed` | `?mode=code` ; préambule à coller ; « Arrêter » |
+| 1, 2, 4, 6, 7, 8 | aucune ouverture de l'éditeur | inchangées |
+
+**Le préambule (huit lignes, une fonction par ligne, texte de Pascal).** Il fabrique `A0`, `lire_capteur`, `lire_capteur_pourcent`,
+`demarrer_pompe`, `arreter_pompe` et `attendre`, qui **affichent ce que la carte ferait** : un capteur simulé qui lit 55, 40, 25, 12, 28
+puis 45 % en boucle. Mesuré dans Vittascience, `?mode=code`, sans compte, avec le `while True` de l'activité 5 puis le programme de
+l'activité 3 :
+
+- une décision par seconde (`55 → arrêt`, `40 → arrêt`, `25 → MARCHE`, `12 → MARCHE`, `28 → MARCHE`, `45 → arrêt`, puis on recommence) ;
+- **l'onglet ne fige pas** : la page répond en 1 à 4 ms pendant tout le programme ;
+- **« Arrêter »** : un bandeau vert « Exécution de votre code… Veuillez patienter. » porte le bouton (`stopRunButtonPython`), qui n'existe que
+  pendant l'exécution ; le cliquer arrête le programme (console figée, `KeyboardInterrupt`). **Recliquer « Exécuter » ne l'arrête pas** : cela
+  relance le programme en vidant la console ;
+- **les numéros de ligne** : la marge de l'éditeur numérote les lignes, préambule compris, et une erreur de la console pointe **cette**
+  numérotation (une erreur sur la ligne 3 du programme est signalée « line 11 » = 8 + 3, et c'est la ligne 11 à l'écran). La consigne dit
+  « le numéro de ligne donné par la console est celui de la marge de l'éditeur » et ne parle jamais de « ligne 3 du programme ».
+
+**Bouton « Copier ».** Trois exemplaires (activité 3, activité 5, Bonus), chacun avec son bloc de huit lignes : l'élève ne retape jamais le
+préambule. Le texte copié est celui du bloc, espaces insécables remplacés. Le bloc **passe à la ligne** à l'affichage (la première ligne,
+la plus longue, masquait « ne les change pas ») : la copie n'en est pas modifiée. Sous Windows, le presse-papiers réécrit les fins de ligne en CRLF : l'éditeur les normalise au collage.
+
+**Encart des gestes.** Même règle qu'en 3e_C9.1 : **Ouvrir** en mode code ; **Retrouver** par le clic droit, « Modifier dans Bloc-notes »,
+la sélection **à partir de la ligne `import time`** (le préambule fait partie du programme à garder), le collage à la place de
+`print('Bonjour !')` ; **Sortir** par la disquette et Télécharger. **Sans compte** : la connexion est retirée du geste « Ouvrir », les
+captures du cloud et de « Depuis votre appareil » disparaissent, « Sortir » dit que Vittascience ne garde pas le travail d'une séance à
+l'autre. *Cette dernière décision est reprise de 3e_C9.1 (le Bloc-notes remplace le cloud, et la ligne `Auteur:` du `.py` n'existe pas sans
+compte) : à confirmer par Pascal pour 4e_C6.2.*
+
+**Douze captures** (`Images/geste_vitta_*.png`) : refaites, dans un profil temporaire neuf jamais connecté, pour le bouton, le nom (×2),
+le collage exécuté et la fenêtre « Sauvegarder le projet » sans compte ; le Bloc-notes est nouveau (fenêtre à un seul onglet, recadrée) ;
+`1c` et `3` (le menu) sont la **reprise octet pour octet** des images de 3e_C9.1 ; les quatre captures de l'Explorateur du geste « Sortir »
+sont **conservées** du premier jeu (leur fichier d'exemple, `…_75334.py` de 609 octets, n'est pas celui du geste « Retrouver »).
+
+**Ce que la mesure a appris — à lire par Pascal :**
+
+* **`Documents\4E3` existe encore sur le poste**, avec `4e-ARROSAGE-DUPONT_202694_75334.py` (créé le 04/10 à 08:01, reste du premier jeu de
+  captures de ce lot). Je n'y ai pas touché ; les captures de ce lot sont passées par un dossier temporaire, supprimé. **À mettre à la
+  corbeille par Pascal.**
+* **`attendre(1)` pèse sur le temps de la séance** : le programme boucle sans fin, une mesure par seconde ; la consigne dit d'arrêter avec
+  « Arrêter » quand la décision a été observée.
+* **Les valeurs du capteur simulé sont fixes** (six mesures qui tournent) : les élèves voient les deux branches du `if`, mais pas un
+  vrai capteur. Dit dans la consigne (« le capteur simulé lit… »).
+* Non mesuré : un navigateur autre que Chrome ; un élève qui modifierait le préambule ; le comportement du bouton « Arrêter » sur un
+  poste lent.
+* **Même classement à faire pour `3e_C7.1`, `5e_C7.1`, `4e_C9.1` et `5e_C9.1`** quand leur tour viendra (activité où l'élève tape du code
+  → `?mode=code`, Sortir par Télécharger, Retrouver par le Bloc-notes ; activité en blocs → mode mixte).
+
+### Vérifié
+
+`controle_hierarchie`, `controle_debordement`, `controle_gestes_outil`, `controle_medias`, `controle_liens`, `controle_rapports_tests` verts ·
+`tests_4e_C6.2.mjs` **38 / 38** (trois contrôles ajoutés : n°36 les trois boutons « Copier » copient les huit lignes exactes, n°37 les trois
+liens en `?mode=code`, n°38 plus de « blocs capteurs » et « Arrêter » dans chaque barre) · au navigateur, 1280 et 390 px : 12 images, 0 cassée,
+loupe active sur les 12, pas de défilement horizontal (le seul 404 vu est le `favicon.ico` du serveur local) · préambule mesuré dans
+Vittascience avec le texte exact (voir plus haut).
+
+**Remis en état.** Dossier temporaire `essai-gestes-4e` envoyé à la corbeille, fenêtre du Bloc-notes ouverte pour la capture refermée,
+fenêtres de l'Explorateur fermées ; dans la session de Pascal, aucun onglet du Bloc-notes n'a été touché.

diff --git a/theme-2-structure-fonctionnement-comportement/C6-comprendre-et-modifier-un-programme-associe/4e/4e_C6.2/rapport_tests_4e_C6.2_qcm.md b/theme-2-structure-fonctionnement-comportement/C6-comprendre-et-modifier-un-programme-associe/4e/4e_C6.2/rapport_tests_4e_C6.2_qcm.md
@@ -1,8 +1,8 @@
 # Rapport de tests — Lot 4e_C6.2 « Le jardin connecté : arrosage automatique »
 
 **Suite** : `tests_4e_C6.2.mjs`, livrée dans ce dossier · **Outil** : Playwright
-(Chromium headless), viewport mobile 390 × 844 · **Rejouée le 31/08/2026** ·
-**Verdict : 35 / 35 ✅**
+(Chromium headless), viewport mobile 390 × 844 · **Rejouée le 31/08/2026, puis le 04/10/2026**
+(trois contrôles ajoutés, n°36 à 38, bureau 1280 × 900) · **Verdict : 38 / 38 ✅**
 
 ```
 cd theme-2-.../C6-.../4e/4e_C6.2 && node tests_4e_C6.2.mjs
@@ -92,6 +92,21 @@ la série** (voir plus bas), et regroupées ici :
 | 33 | Aucune réponse exposée dans le HTML rendu (plus de `value="v0"`) | ✅ |
 | 34 | Le lien de retour vers la séquence pointe sur un fichier réel | ✅ |
 | 35 | Aucune erreur JS sur le QCM | ✅ |
+
+## Éditeur en mode code : préambule et bouton « Copier » — 3 contrôles
+
+Ajoutés le 04/10/2026 avec le lot correctif de 4e_C6.2. Ils éprouvent ce que **la page** promet ; ce qui se passe dans
+Vittascience (le préambule collé, l'exécution, le bouton « Arrêter ») a été mesuré à la main, avec le texte exact, et n'est pas
+rejoué ici : c'est un service externe.
+
+| # | Contrôle | Verdict |
+|---|---|---|
+| 36 | Les trois boutons « Copier le préambule » (activité 3, activité 5, Bonus) copient chacun **les huit lignes exactes**, sans espace insécable | ✅ |
+| 37 | Les trois liens-boutons ouvrent l'éditeur en `?mode=code`, plus en mode mixte | ✅ |
+| 38 | Plus de « blocs capteurs » ni de « blocs à gauche, Python à droite » ; chaque barre 🧪 nomme « Arrêter » | ✅ |
+
+Le test 36 remplace `navigator.clipboard` par un espion : il vérifie le texte **envoyé** au presse-papiers, pas le presse-papiers
+du système (qui, sous Windows, réécrit les fins de ligne en CRLF).
 
 ## Le test n°32 (n°12 d'origine) a d'abord échoué, et c'est le plus utile de la série
 
